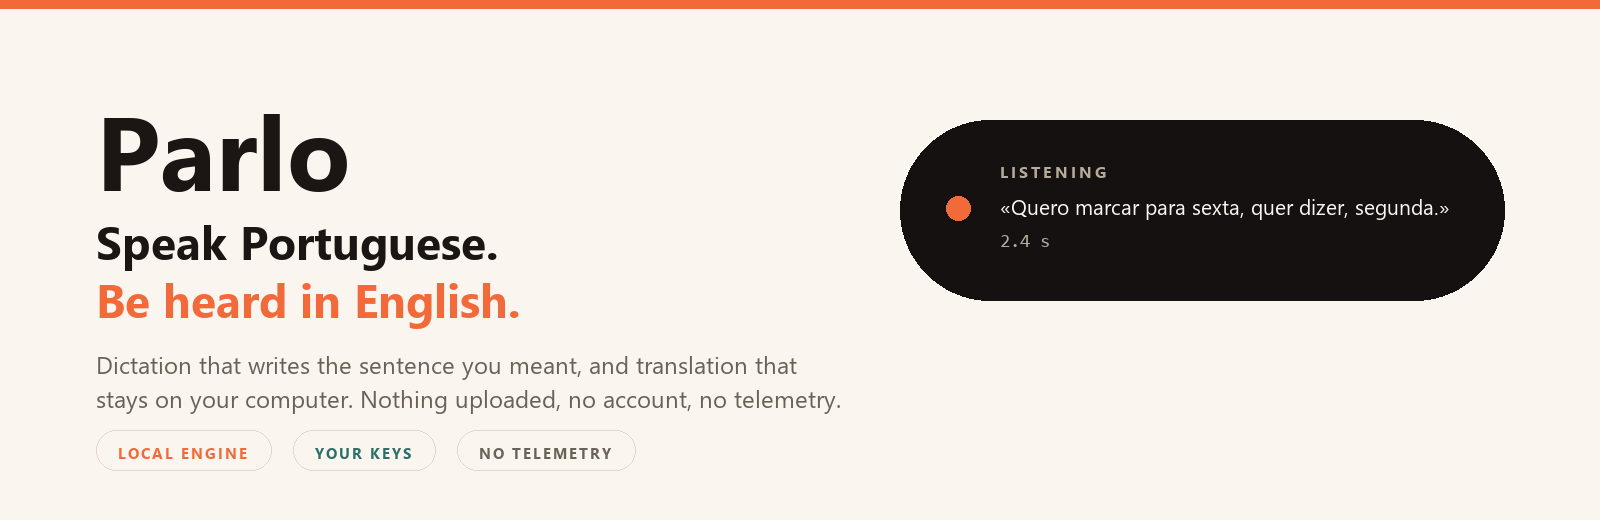
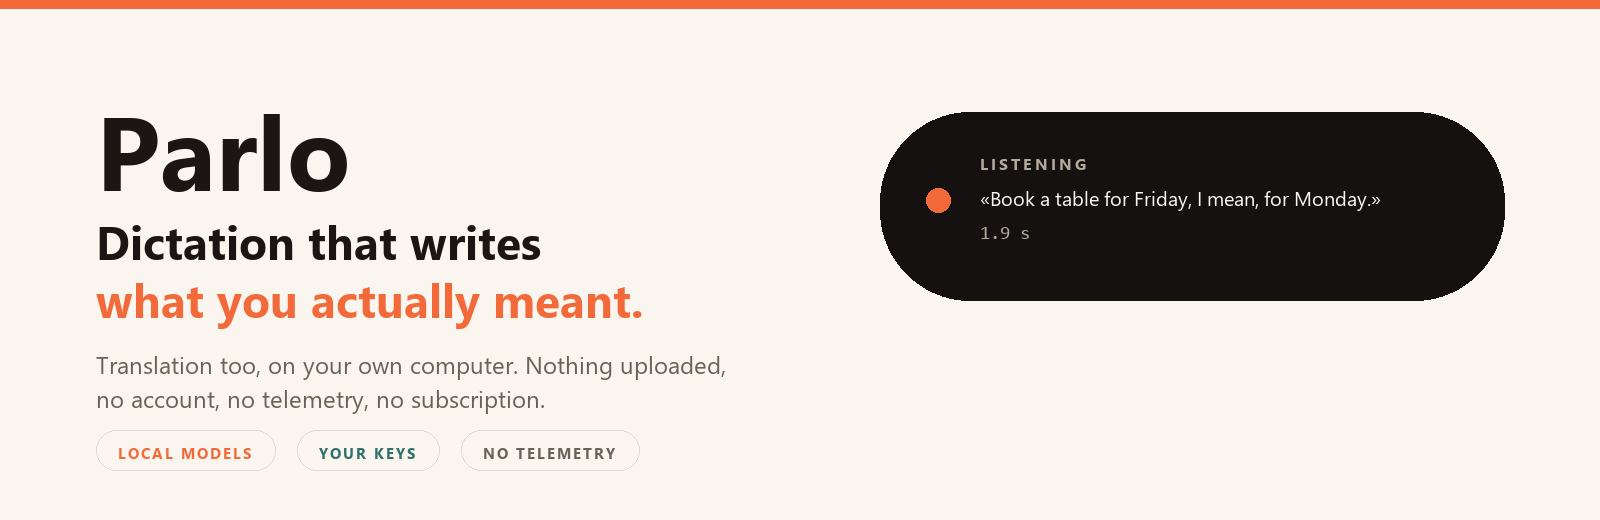
Speak to the world, not one country

diff --git a/tools/brand.py b/tools/brand.py
@@ -3,6 +3,7 @@ from pathlib import Path
 from PIL import Image, ImageDraw, ImageFont
 
 PAPER = (250, 246, 239)
+CARD = (255, 252, 246)
 INK = (27, 22, 19)
 MUTED = (107, 98, 87)
 ACCENT = (242, 105, 58)
@@ -18,6 +19,8 @@ REGULAR = "segoeui.ttf"
 MONO = "consola.ttf"
 
 ASSETS = Path("assets")
+SPOKEN = "«Book a table for Friday, I mean, for Monday.»"
+WRITTEN = "Book a table for Monday."
 
 
 def font(name: str, size: int):
@@ -48,44 +51,28 @@ def banner():
     draw = ImageDraw.Draw(image)
     draw.rectangle((0, 0, width, 8), fill=ACCENT)
     draw.text((96, 78), "Parlo", font=font(BOLD, 104), fill=INK)
-    draw.text(
-        (96, 210),
-        "Speak Portuguese.",
-        font=font(BOLD, 46),
-        fill=INK,
-    )
-    draw.text(
-        (96, 268),
-        "Be heard in English.",
-        font=font(BOLD, 46),
-        fill=ACCENT,
-    )
+    draw.text((96, 210), "Dictation that writes", font=font(BOLD, 46), fill=INK)
+    draw.text((96, 268), "what you actually meant.", font=font(BOLD, 46), fill=ACCENT)
     draw.text(
         (96, 348),
-        "Dictation that writes the sentence you meant, and translation that",
+        "Translation too, on your own computer. Nothing uploaded,",
         font=font(REGULAR, 24),
         fill=MUTED,
     )
     draw.text(
         (96, 382),
-        "stays on your computer. Nothing uploaded, no account, no telemetry.",
+        "no account, no telemetry, no subscription.",
         font=font(REGULAR, 24),
         fill=MUTED,
     )
 
-    pill = (900, 120, 1504, 300)
-    card(draw, pill, 90, DARK)
-    draw.ellipse((946, 196, 970, 220), fill=ACCENT)
-    spaced(draw, (1000, 160), "LISTENING", font(BOLD, 16), SOFT, 3)
-    draw.text(
-        (1000, 192),
-        "«Quero marcar para sexta, quer dizer, segunda.»",
-        font=font(REGULAR, 21),
-        fill=CREAM,
-    )
-    draw.text((1000, 232), "2.4 s", font=font(MONO, 19), fill=SOFT)
+    card(draw, (880, 112, 1504, 300), 90, DARK)
+    draw.ellipse((926, 188, 950, 212), fill=ACCENT)
+    spaced(draw, (980, 152), "LISTENING", font(BOLD, 16), SOFT, 3)
+    draw.text((980, 184), SPOKEN, font=font(REGULAR, 20), fill=CREAM)
+    draw.text((980, 224), "1.9 s", font=font(MONO, 19), fill=SOFT)
 
-    chips = (("LOCAL ENGINE", ACCENT), ("YOUR KEYS", TEAL), ("NO TELEMETRY", MUTED))
+    chips = (("LOCAL MODELS", ACCENT), ("YOUR KEYS", TEAL), ("NO TELEMETRY", MUTED))
     x = 96
     for label, color in chips:
         text_width = sum(draw.textlength(character, font=font(BOLD, 15)) + 2 for character in label)
@@ -103,10 +90,10 @@ def island():
     card(draw, (20, 30, 1100, 230), 96, DARK + (238,))
     draw.ellipse((70, 118, 94, 142), fill=ACCENT)
     spaced(draw, (124, 84), "INSERTED", font(BOLD, 15), SOFT, 3)
-    draw.text((124, 112), "Vou ao Porto na sexta-feira.", font=font(REGULAR, 30), fill=CREAM)
+    draw.text((124, 112), WRITTEN, font=font(REGULAR, 32), fill=CREAM)
     draw.text(
         (124, 162),
-        "Written into the field you were in.",
+        "Typed into the field you were in.",
         font=font(REGULAR, 19),
         fill=SOFT,
     )
@@ -114,36 +101,89 @@ def island():
     image.save(ASSETS / "island.png")
 
 
+STEPS = (
+    ("PAVE", "audio in"),
+    ("PSTE", "speech to text"),
+    ("PIE", "the sentence you meant"),
+    ("FIELD", "where you were writing"),
+)
+
+CAPTIONS = (
+    "Listening on your microphone.",
+    "Turning speech into text, on this machine.",
+    SPOKEN,
+    WRITTEN,
+)
+
+
+def layout(draw, active):
+    for index, (title, caption) in enumerate(STEPS):
+        x = 60 + index * 290
+        lit = index == active
+        card(draw, (x, 84, x + 250, 206), 24, CARD if lit else PAPER, ACCENT if lit else LINE, 3 if lit else 2)
+        draw.text((x + 24, 106), title, font=font(BOLD, 26), fill=ACCENT if lit else INK)
+        draw.text((x + 24, 150), caption, font=font(REGULAR, 17), fill=MUTED)
+        if index < len(STEPS) - 1:
+            draw.line((x + 260, 145, x + 280, 145), fill=MUTED, width=2)
+            draw.line((x + 273, 138, x + 281, 145), fill=MUTED, width=2)
+            draw.line((x + 273, 152, x + 281, 145), fill=MUTED, width=2)
+
+
+def flow():
+    width, height = 1200, 360
+    frames = []
+    for phase in range(len(STEPS)):
+        for tick in range(6):
+            image = canvas(width, height)
+            draw = ImageDraw.Draw(image)
+            draw.rectangle((0, 0, width, 6), fill=ACCENT)
+            layout(draw, phase)
+            text = CAPTIONS[phase]
+            if phase == len(STEPS) - 1:
+                visible = max(1, round(len(text) * (tick + 1) / 6))
+                text = text[:visible] + ("▌" if tick < 5 else "")
+            draw.text((60, 260), text, font=font(REGULAR, 25), fill=INK)
+            draw.text(
+                (60, 312),
+                "Rules in microseconds · a model only if you allowed one · a check that refuses to change meaning",
+                font=font(REGULAR, 18),
+                fill=SOFT,
+            )
+            frames.append(image)
+    frames[0].save(
+        ASSETS / "flow.gif",
+        save_all=True,
+        append_images=frames[1:],
+        duration=140,
+        loop=0,
+        optimize=True,
+    )
+
+
 def pipeline():
     width, height = 1500, 430
     image = canvas(width, height)
     draw = ImageDraw.Draw(image)
-    steps = [
-        ("PAVE", "audio in, 16 kHz", INK),
-        ("PSTE", "speech to text", INK),
-        ("PIE", "the sentence you meant", ACCENT),
-        ("FIELD", "typed where you were", TEAL),
-    ]
-    for index, (title, caption, color) in enumerate(steps):
+    for index, (title, caption) in enumerate(STEPS):
         x = 60 + index * 350
-        card(draw, (x, 120, x + 300, 260), 28, PAPER, LINE, 2)
-        draw.text((x + 32, 148), title, font=font(BOLD, 30), fill=color)
-        draw.text((x + 32, 196), caption, font=font(REGULAR, 20), fill=MUTED)
-        if index < len(steps) - 1:
+        card(draw, (x, 110, x + 300, 250), 28, PAPER, LINE, 2)
+        draw.text((x + 32, 138), title, font=font(BOLD, 30), fill=ACCENT if title == "PIE" else INK)
+        draw.text((x + 32, 186), caption, font=font(REGULAR, 20), fill=MUTED)
+        if index < len(STEPS) - 1:
             arrow = x + 316
-            draw.line((arrow, 190, arrow + 22, 190), fill=MUTED, width=3)
-            draw.line((arrow + 14, 182, arrow + 24, 190), fill=MUTED, width=3)
-            draw.line((arrow + 14, 198, arrow + 24, 190), fill=MUTED, width=3)
+            draw.line((arrow, 180, arrow + 22, 180), fill=MUTED, width=3)
+            draw.line((arrow + 14, 172, arrow + 24, 180), fill=MUTED, width=3)
+            draw.line((arrow + 14, 188, arrow + 24, 180), fill=MUTED, width=3)
     draw.text(
-        (60, 300),
+        (60, 296),
         "Rules in microseconds, then a model only if you allowed one, then a check that refuses to change meaning.",
         font=font(REGULAR, 22),
         fill=MUTED,
     )
     draw.text(
         (60, 336),
-        "PAVE audio · PSTE transcription · PIE intelligence · PTE translation · PIMO models · PME memory",
-        font=font(MONO, 17),
+        "Languages today: Portuguese and English, both directions. PAVE audio · PSTE transcription · PIE intelligence · PTE translation",
+        font=font(MONO, 15),
         fill=SOFT,
     )
     image.save(ASSETS / "pipeline.png")
@@ -154,7 +194,8 @@ def main():
     banner()
     island()
     pipeline()
-    print("wrote assets/banner.png, assets/island.png, assets/pipeline.png")
+    flow()
+    print("wrote assets/banner.png, assets/island.png, assets/pipeline.png, assets/flow.gif")
 
 
 if __name__ == "__main__":

diff --git a/README.md b/README.md
@@ -1,10 +1,10 @@
 <p align="center">
-  <img src="assets/banner.png" alt="Parlo: speak Portuguese, be heard in English" width="100%">
+  <img src="assets/banner.png" alt="Parlo: dictation that writes what you meant" width="100%">
 </p>
 
 <p align="center">
-  <b>Dictation and translation that run on your own computer.</b><br>
-  Nothing is uploaded. There is no account, no telemetry and no subscription.
+  <b>A desktop app that turns speech into clean text, and text into another language.</b><br>
+  Everything runs on your machine. No account, no telemetry, no subscription.
 </p>
 
 <p align="center">
@@ -16,80 +16,84 @@
   <img alt="Telemetry" src="https://img.shields.io/badge/telemetry-none-4c566a?style=flat-square">
 </p>
 
-Parlo listens to you speak, writes down the sentence you meant instead of every word you said, and translates it when you want the other language. It runs on an ordinary laptop CPU, keeps every model on your disk, and only touches the network to check for a new version — or to reach a cloud provider **you** configured with **your** key.
+You press one shortcut, speak, and the sentence appears in the field you were already in — typed, not pasted, because Parlo remembers which window had the focus. What gets written is what you meant, not what you said: a correction after "I mean" replaces the words it corrects, hesitations and false starts disappear, and the sentence you actually spoke is kept beside the result.
 
-```
-Ctrl+Alt+D → speak → «Quero marcar para sexta, quer dizer, para segunda.» → written as:
-Quero marcar para segunda.
+It speaks two languages so far, Portuguese and English, in both directions, and translates as well as transcribes.
+
+```text
+Ctrl+Alt+D  →  "Book a table for Friday, I mean, for Monday."
+            →  Book a table for Monday.
 ```
 
-## What you can do today
+## What works today
 
 | | |
 |---|---|
-| **Dictate anywhere** | `Ctrl+Alt+D` opens the island and starts listening. The text is typed into the field you came from, or copied when the window changed. |
-| **The sentence you meant** | Self-corrections, hesitations, false starts and accidental repetitions are fixed on rules alone: **61.9 µs** per sentence, no model, no network. The sentence as heard is kept beside it. |
+| **Dictation anywhere** | `Ctrl+Alt+D` shows the island and starts listening; the text is typed into the window you came from, or copied when that window is gone. Windows today; macOS and Linux copy. |
+| **The sentence you meant** | Self-corrections, hesitations, false starts and repetitions fixed on rules alone: **61.9 µs** per sentence, no model, no network, and the original kept beside it. |
 | **Cleanup your way** | *Rules only*, *a model on this machine*, *your cloud provider*, or *Automatic*. Cloud is never reached without an explicit switch and a stored key. |
-| **Your key, your vault** | OpenAI, Anthropic, Gemini and any OpenAI-compatible server. Keys live in DPAPI, the macOS keychain or the Linux secret service — never in a config file, a log or an error message. |
-| **Words Parlo should know** | Your names and short forms, applied before any model reads the sentence, kept in a local file. |
-| **Translate and speak** | Portuguese ↔ English, offline, with a neutral voice; dubbing a video with subtitles works too. |
-| **Meetings** | Import a transcript with speakers, or record the microphone into one, line by line, with timestamps. |
-| **Free when idle** | Loaded models are released after 10 minutes to 4 hours of silence, or never, your choice. |
+| **Your key, your vault** | OpenAI, Anthropic, Gemini and any OpenAI-compatible server. Keys go to DPAPI, the macOS keychain or the Linux secret service — never a config file, a log or an error message. |
+| **Words you actually use** | Names and short forms the recogniser keeps missing, applied before any model reads the sentence, kept in a local file. |
+| **Meetings** | Import a transcript with speakers, or record the microphone into one, line by line with timestamps. |
+| **Translation and voice** | Portuguese ↔ English offline, with a neutral voice; dubbing a video with subtitles works too. |
+| **Free when idle** | Loaded models are released after 10 minutes to 4 hours of silence — or never, your choice. |
 
 ## Install
 
-**From a release — no Python, no Rust.** Download the archive for your system, unpack it, double-click `parlo-app`, let it download about 800 MB of models once, and you are offline for good.
+**From a release — no Python, no Rust.** Download the archive for your platform, unpack it, double-click `parlo-app`, let it fetch about 800 MB of models once. After that it is offline for good.
 
 ```text
 parlo-windows-x86_64.zip     parlo-macos-aarch64.tar.gz     parlo-linux-x86_64.tar.gz
 ```
 
-**From source** — Rust 1.85 or newer.
+**From source** — Rust 1.85 or newer, nothing else.
 
 ```bash
 cargo build --release -p parlo-cli -p parlo-app
 target/release/parlo-app
 ```
 
-`parlo install` copies it into your user folder with a menu entry; `parlo update` replaces the running copy in place, and the window offers each new release with its notes and an **Install update** button. No version is ever installed by uninstalling the old one.
+`parlo install` copies it into your user folder with a menu entry. `parlo update` replaces the running copy in place, and the window offers every new release with its notes and an **Install update** button — no version is ever installed by uninstalling the old one.
 
 ## See it
 
 <p align="center">
-  <img src="assets/island.png" alt="The dictation island showing the text it inserted" width="88%"><br>
-  <sub>The dictation island, after a correction was resolved and the text was typed where you were.</sub>
+  <img src="assets/flow.gif" alt="Speech, recognition, the cleaned sentence, and the field: the dictation path" width="100%"><br>
+  <sub>Animated by <code>tools/brand.py</code> — a diagram of the real path, not a screen recording.</sub>
 </p>
 
 <p align="center">
-  <img src="assets/pipeline.png" alt="PAVE, PSTE, PIE and the field: the dictation path" width="100%"><br>
-  <sub>One path, one responsibility per engine. The names are defined in <a href="PARLO_GLOSSARY.md">PARLO_GLOSSARY.md</a>.</sub>
+  <img src="assets/island.png" alt="The dictation island showing the sentence it inserted" width="88%"><br>
+  <sub>The island after a correction was resolved and the text was typed where you were.</sub>
 </p>
+
+Two more pictures, both generated from the same script: [the pipeline](assets/pipeline.png) and [the banner](assets/banner.png).
 
 ## Measured
 
-Windows 11 laptop, no GPU, 4 threads, warm process. Conditions and raw rows in [docs/BENCHMARKS.md](docs/BENCHMARKS.md); nothing here is a claim about a machine nobody ran it on.
+Windows 11 laptop, no GPU, 4 threads, warm process. Conditions and raw rows in [docs/BENCHMARKS.md](docs/BENCHMARKS.md) — nothing here is a promise about a machine nobody ran it on.
 
 | What | Result |
 |---|---|
 | Cleanup rules, 10 sentences × 1 000 runs | **61.9 µs** mean, 102.1 µs p95 |
 | One segment through the cascade, recognition included | **420.7 ms** mean, 485 ms p95 |
-| Thirty minutes of audio, 1 095 segments | no drift, no errors; last ten cycles 58 ms faster than the first |
-| Streaming, European Portuguese | first partial **849 ms**, final text **3 356 ms**, WER **0.231** |
+| Thirty minutes of audio, 1 095 segments | no drift, no errors; the last ten cycles 58 ms faster than the first |
+| Streaming, first partial to final text | **849 ms** to **3 356 ms**, word error rate **0.231** |
 | Real time factor, Parakeet v3 int8 on 4 threads | **0.11** |
 | Cold start with every model | **18.1 s** |
 
-Not measured, and not claimed: any cloud provider's latency or price. No live request has been made to one with a real key.
+Not measured, and claimed nowhere: any cloud provider's latency or price. No live request to one has been made with a real key.
 
 ## How it differs
 
 | | Native call translation | Parlo |
 |---|---|---|
 | Works in | Only that app | Any field, any app that takes keyboard input |
-| Audio leaves the PC | Yes | **No in local mode** |
-| Cost | Paid plan | **Free**, your hardware |
+| Audio leaves the machine | Yes | **No in local mode** |
+| Cost | Paid plan | **Free**, on your hardware |
 | The other side needs an account | Usually | **No** |
 | Cloud AI | Required | Optional, your key, off by default |
-| Languages | Many | Portuguese and English today, honestly labelled |
+| Languages | Many | Two today, grown by the community |
 
 ## How it works
 
@@ -99,19 +103,19 @@ flowchart LR
     A --> S[PSTE<br/>speech to text]
     S --> I[PIE<br/>the sentence you meant]
     I --> F[Your field]
-    I -.->|translated| T[PTE<br/>text to another language]
+    I -.->|translated| T[PTE<br/>another language]
 ```
 
-An engine is chosen by responsibility, not by vendor: **PAVE** owns audio, **PSTE** recognition, **PIE** the text, **PTE** translation, **PIMO** which model runs and when it leaves memory, **PME** what is remembered. The backend is a Python sidecar behind a newline-delimited JSON protocol, so a model crash cannot take the window down; the app is Rust with a Tauri shell. [docs/ARCHITECTURE.md](docs/ARCHITECTURE.md) has the detail.
+Each engine owns one responsibility: **PAVE** the audio, **PSTE** recognition, **PIE** the text, **PTE** translation, **PIMO** which model runs and when it leaves memory, **PME** what is remembered. The model side is a Python sidecar behind a newline-delimited JSON protocol, so a model crash cannot take the window down; the app itself is Rust with a Tauri shell. Details: [docs/ARCHITECTURE.md](docs/ARCHITECTURE.md).
 
 ## Privacy
 
 - Local mode makes no network call. No telemetry, no accounts, no crash reporting.
 - Audio is never written to disk unless you pass an output path.
-- A cloud provider is reached only when you allow it, store a key and pick it, over HTTPS or loopback, straight from your machine — there is no Parlo server in the middle.
-- Your vocabulary, history and meetings stay in your user data folder, and every one of them can be deleted from the interface.
+- A provider is reached only when you allow it, store a key and pick it — over HTTPS or loopback, straight from your machine. There is no Parlo server in the middle.
+- History, meetings and vocabulary stay in your user data folder, and each can be deleted from the interface.
 
-How to verify it yourself: [docs/PRIVACY.md](docs/PRIVACY.md).
+Verify it yourself: [docs/PRIVACY.md](docs/PRIVACY.md).
 
 ## Build and test
 
@@ -123,11 +127,11 @@ cargo test --workspace
 cd engines/cascade && PYTHONPATH=. python -m unittest discover -s tests
 ```
 
-CI runs those on Linux, macOS and Windows, plus the licence gate that keeps every artefact's terms in [LICENSES.md](LICENSES.md).
+CI runs those on Linux, macOS and Windows, alongside the licence gate that keeps every artefact's terms in [LICENSES.md](LICENSES.md).
 
 ## Roadmap
 
-The next release is **v0.2.0**: cloud cost control, per-model unload rules in the interface, and Ask Parlo over past meetings. After that, **v0.3 Ouvir** decides with data before adding features, and the plan stops at **v0.5 Escrever noutra língua** — spoken Portuguese written as English, German, Spanish or French in the active field. Milestones in [ROADMAP.md](ROADMAP.md) are labels; releases come from [docs/releases](docs/releases) and are announced inside the app.
+The next release is **v0.2.0**: cloud cost control, per-model unload rules in the interface, and Ask Parlo over past meetings. Then **v0.3 Listen** decides with data before adding features, and the plan stops at **v0.5 Write in another language** — any supported language into the active field, with a measured quality gate rather than a promise. Milestones in [ROADMAP.md](ROADMAP.md) are labels; releases live in [docs/releases](docs/releases) and are announced inside the app.
 
 ## Docs
 
@@ -135,10 +139,10 @@ The next release is **v0.2.0**: cloud cost control, per-model unload rules in th
 
 ## Contributing
 
-Issues and pull requests are welcome — [CONTRIBUTING.md](CONTRIBUTING.md) starts with the three smallest useful things: a hardware report from your own machine, a recording in your accent, or a translation of this page. `good first issue` is where to look first.
+Issues and pull requests are welcome. The three smallest useful things right now: a hardware report from your own machine, a recording in your accent, or a translation of this page into a language you speak. Start with [CONTRIBUTING.md](CONTRIBUTING.md) and look for `good first issue`.
 
 ## Licence
 
-The code is **Apache-2.0**: commercial use, modification and redistribution allowed, with a patent grant. Model weights keep their publishers' terms — Parakeet is CC-BY-4.0, the OPUS-MT packages are CC BY 4.0 — and the optional Piper adapter is GPL-3.0-or-later, installed separately and never in an archive. [LICENSES.md](LICENSES.md) is the index, [THIRD_PARTY_NOTICES.md](THIRD_PARTY_NOTICES.md) carries the notices, and [docs/LICENSES.md](docs/LICENSES.md) explains the split.
+The code is **Apache-2.0**: commercial use, modification and redistribution allowed, with a patent grant. Model weights keep their publishers' terms — Parakeet is CC-BY-4.0, the OPUS-MT packages are CC BY 4.0 — and the optional Piper adapter is GPL-3.0-or-later, installed separately and never shipped in an archive. [LICENSES.md](LICENSES.md) is the index, [THIRD_PARTY_NOTICES.md](THIRD_PARTY_NOTICES.md) carries the notices, and [docs/LICENSES.md](docs/LICENSES.md) explains the split.
 
-<p align="center"><sub>Parlo is an independent project. The speech-to-speech approach builds on <a href="https://github.com/kyutai-labs/hibiki">Hibiki-Zero</a> by Kyutai, used as an optional engine under its own licence.</sub></p>
+<p align="center"><sub>Parlo is independent and unaffiliated with any company it interoperates with. The speech-to-speech approach builds on <a href="https://github.com/kyutai-labs/hibiki">Hibiki-Zero</a> by Kyutai, used as an optional engine under its own licence.</sub></p>
